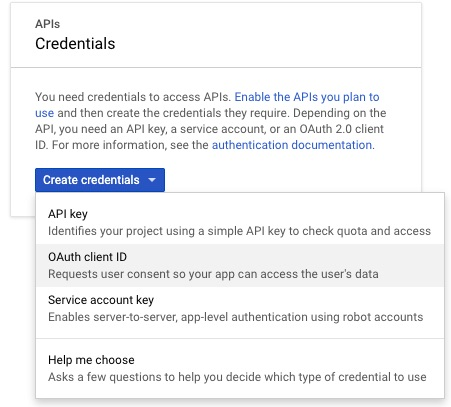
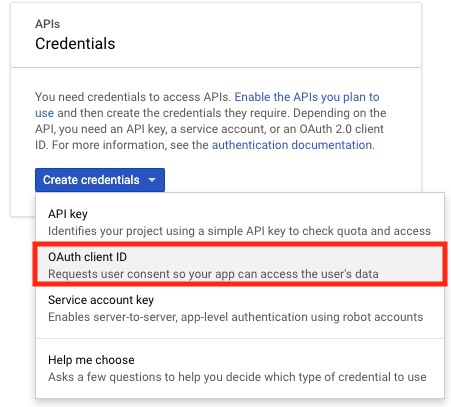
update README and jpg files

Changed region(s): [[0.0621, 0.5897, 0.9933, 0.7076]]

diff --git a/README.md b/README.md
@@ -149,24 +149,24 @@ git clone https://github.com/byliuyang/short.git
 1. Replace the value of `FACEBOOK_CLIENT_SECRET` in `backend/.env` file with
    `App Secret`.
 
-### Create Google OAuth Application
+### Create Google OAuth Client ID
 
-Create a new credential at
-   [Credentials page](https://console.developers.google.com/apis/credentials) with the following steps:
+Create a new Client ID at
+   [Google API Credentials](https://console.developers.google.com/apis/credentials):
 
-1. Click `OAuth client ID` under `Create credentials`.
+1. Click on `Create Credentials` and select `OAuth client ID`.
 
    ![Credentials](doc/google/credentials.jpg)
 
-1. Choose `Web application` under `Application type`.
+1. Select `Web application` for `Application type`.
 
-1. Put `http://localhost/oauth/google/sign-in/callback` under `Authorized redirect URIs`, click `Create`.
+1. Fill in `http://localhost/oauth/google/sign-in/callback` for `Authorized redirect URIs` and click on `Create`
 
    ![OAuth](doc/google/oauth.jpg)
    
-1. Replace the value of `GOOGLE_CLIENT_ID` in `backend/.env` file with `Client ID`.
+1. 1. Replace the value of `GOOGLE_CLIENT_ID` in `backend/.env` file with `Your Client ID`.
 1. Replace the value of `GOOGLE_CLIENT_SECRET` in `backend/.env` file with
-   `Client Secret`.
+   `Your Client Secret`.
    
 ### Backend
 
